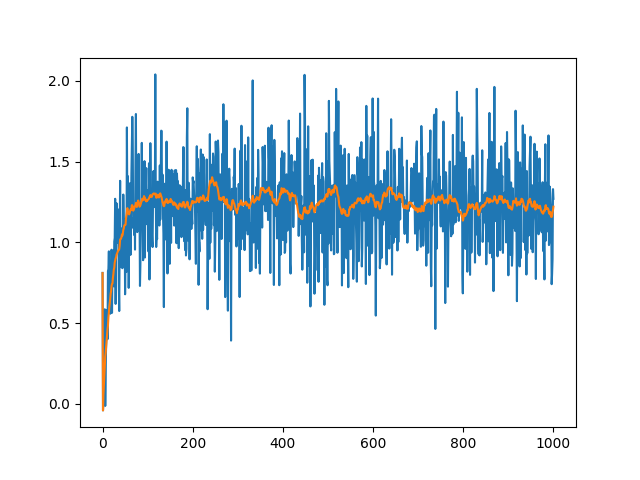
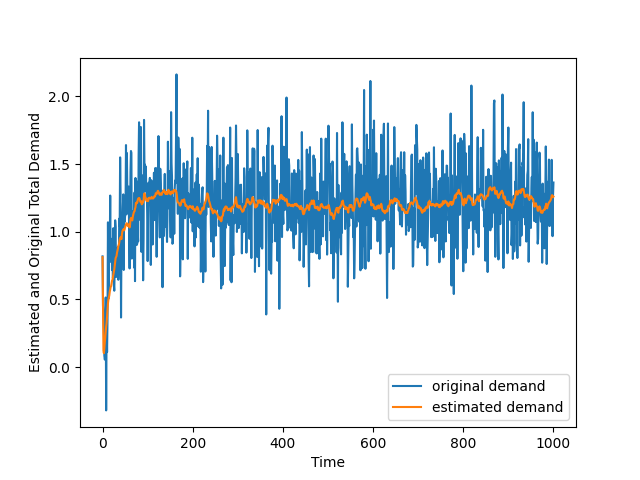
modified:   README.md renamed:    utils.py -> differential_privacy.py modified:   kalman.py

diff --git a/differential_privacy.py b/differential_privacy.py
@@ -64,7 +64,7 @@ def x_mat(n_tp=300, x_supply0=1.5, DP=True, plot=True, K=1, T=1):
     x_supply_DP[0] = x_supply0
     x_cons_DP[0] = np.sum(x_1) / 1000
     price_DP[0] = lambda_0
-    print("SD of added noise to individual consumer demand reading", np.std(calc_noise()))
+    print("Standard Deviation of external noise added to individual consumer demands", np.std(calc_noise()))
 
   outputs = []
   Q_mat = np.zeros((3, 3))
@@ -101,21 +101,36 @@ def x_mat(n_tp=300, x_supply0=1.5, DP=True, plot=True, K=1, T=1):
       error.append(x_supply[i] - x_cons[i])
     if not DP:
       plt.plot(error)
+      plt.xlabel("Time")
+      plt.ylabel("Supply Demand Mismatch (MW)")
       plt.savefig('results/sup_dem_mismatch.png')
+      plt.show()
       plt.close()
+
       plt.plot(outputs)
+      plt.xlabel("Time")
+      plt.ylabel("Standard Deviation of output")
       plt.savefig("results/standard_dev_noise.png")
+      plt.show()
       plt.close()
     else:
       error_w_DP = []
       for i in range(1,n_tp+1):
         error_w_DP.append(x_supply_DP[i] - x_cons_DP[i])
-      plt.plot(error_w_DP)
-      plt.plot(error)
+      plt.plot(error_w_DP, label="With external noise")
+      plt.plot(error, label="no external noise")
+      plt.xlabel("Time")
+      plt.ylabel("Supply Demand Mismatch (MW)")
+      plt.legend()
       plt.savefig('results/sup_dem_mismatch_DP.png')
+      plt.show()
       plt.close()
+
       plt.plot(outputs)
+      plt.xlabel("Time")
+      plt.ylabel("Standard Deviation of output")
       plt.savefig("results/standard_dev_noise_DP.png")
+      plt.show()
       plt.close()
   if not DP:
     return x_supply, x_cons, price, outputs
@@ -125,14 +140,16 @@ def x_mat(n_tp=300, x_supply0=1.5, DP=True, plot=True, K=1, T=1):
 
 def calc_noise():
   exp_std = 0.354
-  curr_std = 0.24
+  curr_std = 0.23
   var_noise = (exp_std * exp_std - curr_std*curr_std)
   noise = np.random.normal(0, math.sqrt((var_noise) / n_homes), n_homes)
   return noise
 
+# generating random values for required parameters
 def get_b_d_psi_beta_omega():
+  ## generating random distributions
   b = (np.random.rand(n_homes)*(b_max-b_min)) + b_min
-  d = np.random.normal(d_mean, d_var, n_homes) ## generating random distributions
+  d = np.random.normal(d_mean, d_var, n_homes) 
   psi = np.random.normal(psi_mean, psi_var, n_homes)
   beta = []
   for j in range(n_homes):
@@ -146,4 +163,5 @@ def main():
   x_mat()
 
 if __name__ == '__main__':
+  os.chdir((os.path.dirname(os.path.abspath(__file__))))
   main()

diff --git a/kalman.py b/kalman.py
@@ -1,4 +1,4 @@
-from utils import *
+from differential_privacy import *
 
 def EstimateNoiseWithKalman():
 	P0 = 500000 # initial uncertainity
@@ -11,6 +11,8 @@ def EstimateNoiseWithKalman():
 		x_0.append(random.random()*xcmax)
 	b, d, psi, beta, omega = get_b_d_psi_beta_omega()
 	x_1 = np.array(b) + np.array(beta) + np.array(omega) + alpha * np.array(x_0)
+
+	# initializing estimated values and uncertainity
 	x_cons_est = [np.sum(x_1) / 1000 for i in range(n_tp + 2)] 
 	P_array = [P0 for i in range(n_tp + 2)]
 	F = alpha
@@ -19,6 +21,7 @@ def EstimateNoiseWithKalman():
 	R = np.var(x_cons_DP)
 
 	b, d, psi, beta, omega = get_b_d_psi_beta_omega()
+	# predicting estimated value and uncertainity
 	x_cons_est[1] = alpha*x_cons_est[0] + (np.sum(beta)*price_DP[0] + np.sum(b)) / 1000 #predict the next state
 	P_array[1] = F * P_array[0] * F + Q
 
@@ -46,25 +49,32 @@ def EstimateNoiseWithKalman():
 
 
 		# step 3
-		# predict
+		# predict state and uncertainity 
 		x_cons_est[i + 1] = alpha*x_cons_est[i] + (np.sum(beta)*price_DP[i] + np.sum(b)) / 1000
 		P_array[i + 1] = F * P_array[i] * F + Q
 
 	plt.plot(K_gains[:-1])
+	plt.xlabel("Time")
+	plt.ylabel("Kalman Gain")
 	plt.savefig("results/kalman_gain.png")
 	plt.show()
 
 
-	plt.plot(x_cons_DP[:-1])
-	plt.plot(x_cons_est[:-1])
+	plt.plot(x_cons_DP[:-1], label="original demand")
+	plt.plot(x_cons_est[:-1], label="estimated demand")
+	plt.xlabel("Time")
+	plt.ylabel("Estimated and Original Total Demand")
+	plt.legend()
 	plt.savefig("results/original_and_estimated_signal.png")
 	plt.show()
 
 	plt.plot(noise[:-1])
+	plt.xlabel("Time")
+	plt.ylabel("Estimated Total Noise")
 	plt.savefig("results/estimated_noise.png")
 	plt.show()
 
-	print("Standard deviation of noise (added + inherent)", np.sqrt(np.var(noise[-900:-1]) / n_homes))
+	print("Standard deviation of noise in individual consumer demands", np.sqrt(np.var(noise[-900:-1]) / n_homes))
 	
-	
+os.chdir((os.path.dirname(os.path.abspath(__file__))))
 EstimateNoiseWithKalman()

diff --git a/README.md b/README.md
@@ -3,4 +3,12 @@
 Python implementation of the research paper **Leveraging Unique CPS Properties to Design Better Privacy-Enhancing Algorithms**
 
 References:
-Jairo Giraldo, Alvaro Cardenas, and Murat Kantarcioglu. 2017. Leveraging Unique CPS Properties to Design Better Privacy-Enhancing Algorithms. In _Proceedings of the Hot Topics in Science of Security: Symposium and Bootcamp_. Association for Computing Machinery, New York, NY, USA, 1–12. DOI:https://doi.org/10.1145/3055305.3055313
+Jairo Giraldo, Alvaro Cardenas, and Murat Kantarcioglu. 2017. Leveraging Unique CPS Properties to Design Better Privacy-Enhancing Algorithms. In _Proceedings of the Hot Topics in Science of Security: Symposium and Bootcamp_. Association for Computing Machinery, New York, NY, USA, 1–12. DOI: https://doi.org/10.1145/3055305.3055313
+
+# Attack Using Kalman Filter
+Using Kalman Filter tried to estimate the private consumer data and added noise.
+
+# Instructions to run code
+1. Setup virtual environment and install requirements from requirements.txt
+2. Differential privacy code is in differential_privacy.py
+3. Kalman Filter code is in kalman.py
